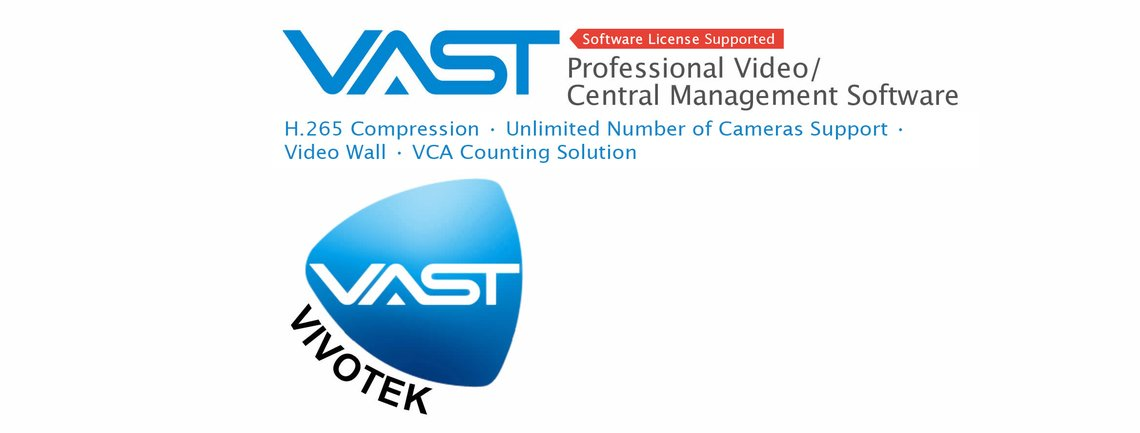
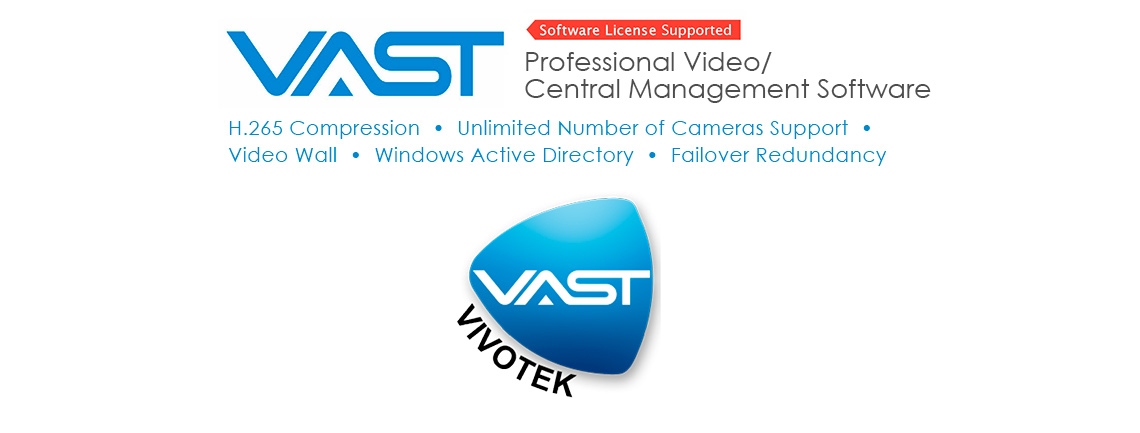
Updates VAST to 1.13.1.10

Changed region(s): [[0.1842, 0.03, 0.8596, 0.9607]]

diff --git a/vast/index.html b/vast/index.html
@@ -237,19 +237,19 @@ to improve your experience.
           <div class="div_clear_18"></div>
 
           <h3>Overview</h3>
-          <p class="t84">VIVOTEK VAST is the professional video/central management software designed for managing all VIVOTEK IP surveillance products with intuitive functions and numerous features. It integrates the new generation H.265 video codec, and supports hundreds of cameras and stations in a hierarchical structure of system for monitoring, recording, playback and event trigger management with ease-of-use and efficient control. Moreover, VAST also offers the video wall solution, VAST Matrix, for hundreds of cameras live view monitoring.</p>
-          <p class="t84">VAST integrates VIVOTEK network cameras to provide diverse solutions and applications, such as seamless recording with the cameras for uninterrupted video recording, Panoramic PTZ for 360° seamless surveillance solution and VCA metadata Integration like Line Crossing Detection, Loitering Detection, Field Detection and People Counting Reports. VAST performs remote management with full range of the server &amp; client structure and constitutes a robust system for various applications, such as Retail, Residential and Industrial.</p>
+          <p class="t84">VIVOTEK’s VAST is an intuitive professional video/central management software designed for managing all VIVOTEK IP surveillance products. It integrates next generation H.265 video codec and supports hundreds of cameras and stations in a hierarchical system structure for monitoring, recording, playback and event trigger management with effortless control. Furthermore, VAST offers the video wall solution, VAST Matrix, for hundreds of live view camera monitoring.</p>
+
+          <p class="t84">VAST expertly integrates with VIVOTEK’s network cameras to provide the most expansive solutions and applications in video surveillance. Seamless recording with cameras for uninterrupted video recording, Panoramic PTZ for 360° seamless surveillance and VCA metadata Integration like Line Crossing Detection, Loitering Detection, Field Detection and People Counting Reports are among the highlights of this integration. At the system level, VAST supports failover redundancy to avoid single points of failure and ensures maximum system up time. It also supports setup of the VAST server on a virtual machine by using one powerful physical server running multiple VASTs on it. VAST performs remote management with the full range of the server &amp; client structures and constitutes a robust system for various applications, such as Retail, Residential and Industrial.</p>
           <div class="div_clear_18"></div>
 
 
-          <h3>New Features in Version 1.12</h3>
+          <h3>New Features in Version 1.13</h3>
           <ul class="pro_ul_t84">
-            <li>Multi-Stream Recording</li>
-            <li>VCA Counting Report</li>
-            <li>HTTP Secure Support</li>
-            <li>Multicast Support (Matrix Only)</li>
-            <li>User Management Enhancement</li>
-            <li>New I/O Box integration</li>
+            <li>Failover Redundancy</li>
+            <li>Virtual Machine Supported</li>
+            <li>RTSP Streaming Recording</li>
+            <li>Joystick Enhancement</li>
+            <li>ONVIF Event Support in Alarm Management</li>
           </ul>
           <div class="div_clear_18"></div>
 
@@ -258,7 +258,7 @@ to improve your experience.
             <li>128-channel Live Video Monitoring with Dual Monitors</li>
             <li>16-channel Synchronous Playback</li>
             <li>Video Wall Solution "VAST Matrix" for Unlimited Live Views</li>
-            <li>Auto Stream Size for Reducing Display Loading</li>
+            <li>Auto Stream Size for Reducing Display Loading (Live-Client/Matrix)</li>
             <li>Instant Replay &amp; Playback on Live Client</li>
             <li>Intelligent Alarm Management and Acknowledgement</li>
             <li>Overall Device Management through Intuitive E-map Feature</li>
@@ -267,6 +267,8 @@ to improve your experience.
             <li>Logical Tree Management</li>
             <li>Windows Active Directory Integration</li>
             <li>VIVOTEK Exclusive Feature: Panoramic PTZ, Seamless Recording and VCA Counting Solution</li>
+            <li>Failover Solution</li>
+            <li>Virtual Machine Solution</li>
           </ul>
           <div class="div_clear_18"></div>
 
@@ -379,7 +381,7 @@ to improve your experience.
                           Version
                       </td>
                       <td>
-                          1.12
+                          1.13
                       </td>
                   </tr>
                   <tr class="spec_cal">
@@ -476,7 +478,7 @@ to improve your experience.
                       </td>
                       <td>
                          Multi Layout Display: 1x1, 2x2, 1+5, 3x3, 1+12, 4x4, 5x5, 1+31, 8x8, 1P+2, 1P+6, 1P+8, 2V, 3V, 4V, 2V+3<br>
-                         Single Layout Display, Full Screen Display, Sequential Display
+                         Single Layout Display, Full Screen Display, Sequential Display, Layout Rotate
                       </td>
                   </tr>
                   <tr>
@@ -728,7 +730,7 @@ to improve your experience.
                           Camera Event
                       </td>
                       <td>
-                          Motion, DI/O, Video Lost/Restore, PIR, Tampering, Temperature, IR, PPTZ, Line Crossing Detection, Loitering Detection, Field Detection
+                          Motion, DI/O, Video Lost/Restore, PIR, Tampering, Temperature, IR, PPTZ, Line Crossing Detection, Loitering Detection, Field Detection, Audio detection, SD Card life Expectancy Detection, Shock Detection, ONVIF Motion Event, ONVIF DI/O, ONVIF Video Lost/Restore
                       </td>
                   </tr>
                   <tr>
@@ -744,7 +746,8 @@ to improve your experience.
                           Substation
                       </td>
                       <td>
-                          Substation Connection Status
+                          Substation Connection Status, Substation DI/DO Trigger* <br>
+                          * Support for VIVOTEK's ND Series NVR
                       </td>
                   </tr>
                   <tr>
@@ -810,6 +813,15 @@ to improve your experience.
                   </tr>
                   <tr>
                       <td>
+                          Device
+                      </td>
+                      <td>
+                          Camera, External DI/O, Substation camera, Substation DI/DO* <br>
+                          * Support for VIVOTEK's ND Series NVR
+                      </td>
+                  </tr>
+                  <tr>
+                      <td>
                           Marked
                       </td>
                       <td>
@@ -821,7 +833,7 @@ to improve your experience.
                           Event Notification
                       </td>
                       <td>
-                          Event Icon Light Flash
+                          Event Icon Light Flash, Show Live Streaming on E-map
                       </td>
                   </tr>
                   <tr class="spec_cal">
@@ -1023,6 +1035,14 @@ to improve your experience.
                   </tr>
                   <tr>
                       <td>
+                          Video Source
+                      </td>
+                      <td>
+                          VIVOTEK Cameras, ONVIF Cameras, RTSP URL
+                      </td>
+                  </tr>
+                  <tr>
+                      <td>
                           Basic Setting
                       </td>
                       <td>
@@ -1094,6 +1114,14 @@ to improve your experience.
                           PTZ Control (Up, Down, Left, Right &amp; Zoom In/Out)
                       </td>
                   </tr>
+                  <tr>
+                      <td>
+                          ONVIF Event
+                      </td>
+                      <td>
+                          Motion Event, DI/DO, Video Lost/Restore
+                      </td>
+                  </tr>
                    <tr>
                       <td>
                           ONVIF Discovery
@@ -1152,6 +1180,15 @@ to improve your experience.
                           Seamless Recording<br>
                           Standard VCA Integration (Line Crossing &amp; Loitering &amp; Field Detection)<br>
                           VCA Counting Solution
+                      </td>
+                  </tr>
+                  <tr>
+                      <td>
+                          Failover Redundancy
+                      </td>
+                      <td>
+                          Support N x M Structure* <br>
+                          * Only Support VAST Server
                       </td>
                   </tr>
               </tbody>
@@ -1647,7 +1684,7 @@ to improve your experience.
                   <div class="block">
                     <h1 class="jplist_dl_title">Release Note</h1>
                     <div class="dl_btn">
-                      <a href="http://download.vivotek.com/downloadfile/downloads/releasenote/vastreleasenote_en.pdf?v=1.12.5.301" target="_blank" class="btn btn-default btn-sm">Download</a>
+                      <a href="http://download.vivotek.com/downloadfile/downloads/releasenote/vastreleasenote_en.pdf" target="_blank" class="btn btn-default btn-sm">Download</a>
                     </div>
                     <div class="div_clear_18"></div>
                   </div>
@@ -1659,9 +1696,9 @@ to improve your experience.
                   <div class="block">
                     <h1 class="jplist_dl_title">VAST<sup>*</sup></h1>
                     <div class="dl_btn">
-                      <a href="http://download.vivotek.com/downloadfile/downloads/software/vast_aio.zip?v=1.12.5.301" target="_blank" class="btn btn-default btn-xs">AIO 1.12.5.301</a>
-                      <a href="http://download.vivotek.com/downloadfile/downloads/software/vast_playback.zip?v=1.12.5.301" target="_blank" class="btn btn-default btn-xs">Playback 1.12.5.301</a>
-                      <a href="http://download.vivotek.com/downloadfile/downloads/software/vast_liveclient.zip?v=1.12.5.301" target="_blank" class="btn btn-default btn-xs">LiveClient 1.12.5.301</a>
+                      <a href="http://download.vivotek.com/downloadfile/downloads/software/vast_aio.zip" target="_blank" class="btn btn-default btn-xs">AIO 1.13.1.10</a>
+                      <a href="http://download.vivotek.com/downloadfile/downloads/software/vast_playback.zip" target="_blank" class="btn btn-default btn-xs">Playback 1.13.1.10</a>
+                      <a href="http://download.vivotek.com/downloadfile/downloads/software/vast_liveclient.zip" target="_blank" class="btn btn-default btn-xs">LiveClient 1.13.1.10</a>
                       <!-- <a href="http://download.vivotek.com/downloadfile/downloads/software/vast_matrix.zip" target="_blank" class="btn btn-default btn-xs">Matrix 1.10.0.202</a> -->
                     </div>
                     <div class="div_clear_18"></div>

diff --git a/brochure/index.html b/brochure/index.html
@@ -8369,6 +8369,7 @@ to improve your experience.
          <h1 class="jplist_pro_title">VAST</h1>
          </a>
          <div class="dl_btn_dls_2_6">
+          <a href="http://download.vivotek.com/downloadfile/downloads/software/vast_1.13.1.10.zip" target="_blank" class="btn btn-default btn-xs">1.13.1.10<span>2017.10</span></a>&nbsp;
           <a href="http://download.vivotek.com/downloadfile/downloads/software/vast_1.12.5.301.zip" target="_blank" class="btn btn-default btn-xs">1.12.5.301<span>2017.07</span></a>&nbsp;
           <a href="http://download.vivotek.com/downloadfile/downloads/software/vast_1.12.5.201.zip" target="_blank" class="btn btn-default btn-xs">1.12.5.201<span>2017.04</span></a>&nbsp;
           <a href="http://download.vivotek.com/downloadfile/downloads/software/vast_1.12.5.101.zip" target="_blank" class="btn btn-default btn-xs">1.12.5.101<span>2017.01</span></a>&nbsp;
@@ -8384,7 +8385,7 @@ to improve your experience.
          <p class="theme">
          <span class="product_files"><span class="iconic iconic-globe" title="Type" aria-hidden="true"></span> Product Files</span>
          <span class="software"><span class="iconic iconic-globe" title="Model" aria-hidden="true"></span> Software</span>
-         <span class="201707"><span class="iconic iconic-globe" title="Model" aria-hidden="true"></span> 2017.07</span>
+         <span class="201710"><span class="iconic iconic-globe" title="Model" aria-hidden="true"></span> 2017.10</span>
          </p>
         </div>
       </div>

diff --git a/downloads/index.html b/downloads/index.html
@@ -8369,6 +8369,7 @@ to improve your experience.
          <h1 class="jplist_pro_title">VAST</h1>
          </a>
          <div class="dl_btn_dls_2_6">
+          <a href="http://download.vivotek.com/downloadfile/downloads/software/vast_1.13.1.10.zip" target="_blank" class="btn btn-default btn-xs">1.13.1.10<span>2017.10</span></a>&nbsp;
           <a href="http://download.vivotek.com/downloadfile/downloads/software/vast_1.12.5.301.zip" target="_blank" class="btn btn-default btn-xs">1.12.5.301<span>2017.07</span></a>&nbsp;
           <a href="http://download.vivotek.com/downloadfile/downloads/software/vast_1.12.5.201.zip" target="_blank" class="btn btn-default btn-xs">1.12.5.201<span>2017.04</span></a>&nbsp;
           <a href="http://download.vivotek.com/downloadfile/downloads/software/vast_1.12.5.101.zip" target="_blank" class="btn btn-default btn-xs">1.12.5.101<span>2017.01</span></a>&nbsp;
@@ -8384,7 +8385,7 @@ to improve your experience.
          <p class="theme">
          <span class="product_files"><span class="iconic iconic-globe" title="Type" aria-hidden="true"></span> Product Files</span>
          <span class="software"><span class="iconic iconic-globe" title="Model" aria-hidden="true"></span> Software</span>
-         <span class="201707"><span class="iconic iconic-globe" title="Model" aria-hidden="true"></span> 2017.07</span>
+         <span class="201710"><span class="iconic iconic-globe" title="Model" aria-hidden="true"></span> 2017.10</span>
          </p>
         </div>
       </div>

diff --git a/firmware/index.html b/firmware/index.html
@@ -8369,6 +8369,7 @@ to improve your experience.
          <h1 class="jplist_pro_title">VAST</h1>
          </a>
          <div class="dl_btn_dls_2_6">
+          <a href="http://download.vivotek.com/downloadfile/downloads/software/vast_1.13.1.10.zip" target="_blank" class="btn btn-default btn-xs">1.13.1.10<span>2017.10</span></a>&nbsp;
           <a href="http://download.vivotek.com/downloadfile/downloads/software/vast_1.12.5.301.zip" target="_blank" class="btn btn-default btn-xs">1.12.5.301<span>2017.07</span></a>&nbsp;
           <a href="http://download.vivotek.com/downloadfile/downloads/software/vast_1.12.5.201.zip" target="_blank" class="btn btn-default btn-xs">1.12.5.201<span>2017.04</span></a>&nbsp;
           <a href="http://download.vivotek.com/downloadfile/downloads/software/vast_1.12.5.101.zip" target="_blank" class="btn btn-default btn-xs">1.12.5.101<span>2017.01</span></a>&nbsp;
@@ -8384,7 +8385,7 @@ to improve your experience.
          <p class="theme">
          <span class="product_files"><span class="iconic iconic-globe" title="Type" aria-hidden="true"></span> Product Files</span>
          <span class="software"><span class="iconic iconic-globe" title="Model" aria-hidden="true"></span> Software</span>
-         <span class="201707"><span class="iconic iconic-globe" title="Model" aria-hidden="true"></span> 2017.07</span>
+         <span class="201710"><span class="iconic iconic-globe" title="Model" aria-hidden="true"></span> 2017.10</span>
          </p>
         </div>
       </div>

diff --git a/flyer/index.html b/flyer/index.html
@@ -8369,6 +8369,7 @@ to improve your experience.
          <h1 class="jplist_pro_title">VAST</h1>
          </a>
          <div class="dl_btn_dls_2_6">
+          <a href="http://download.vivotek.com/downloadfile/downloads/software/vast_1.13.1.10.zip" target="_blank" class="btn btn-default btn-xs">1.13.1.10<span>2017.10</span></a>&nbsp;
           <a href="http://download.vivotek.com/downloadfile/downloads/software/vast_1.12.5.301.zip" target="_blank" class="btn btn-default btn-xs">1.12.5.301<span>2017.07</span></a>&nbsp;
           <a href="http://download.vivotek.com/downloadfile/downloads/software/vast_1.12.5.201.zip" target="_blank" class="btn btn-default btn-xs">1.12.5.201<span>2017.04</span></a>&nbsp;
           <a href="http://download.vivotek.com/downloadfile/downloads/software/vast_1.12.5.101.zip" target="_blank" class="btn btn-default btn-xs">1.12.5.101<span>2017.01</span></a>&nbsp;
@@ -8384,7 +8385,7 @@ to improve your experience.
          <p class="theme">
          <span class="product_files"><span class="iconic iconic-globe" title="Type" aria-hidden="true"></span> Product Files</span>
          <span class="software"><span class="iconic iconic-globe" title="Model" aria-hidden="true"></span> Software</span>
-         <span class="201707"><span class="iconic iconic-globe" title="Model" aria-hidden="true"></span> 2017.07</span>
+         <span class="201710"><span class="iconic iconic-globe" title="Model" aria-hidden="true"></span> 2017.10</span>
          </p>
         </div>
       </div>

diff --git a/handbook/index.html b/handbook/index.html
@@ -8369,6 +8369,7 @@ to improve your experience.
          <h1 class="jplist_pro_title">VAST</h1>
          </a>
          <div class="dl_btn_dls_2_6">
+          <a href="http://download.vivotek.com/downloadfile/downloads/software/vast_1.13.1.10.zip" target="_blank" class="btn btn-default btn-xs">1.13.1.10<span>2017.10</span></a>&nbsp;
           <a href="http://download.vivotek.com/downloadfile/downloads/software/vast_1.12.5.301.zip" target="_blank" class="btn btn-default btn-xs">1.12.5.301<span>2017.07</span></a>&nbsp;
           <a href="http://download.vivotek.com/downloadfile/downloads/software/vast_1.12.5.201.zip" target="_blank" class="btn btn-default btn-xs">1.12.5.201<span>2017.04</span></a>&nbsp;
           <a href="http://download.vivotek.com/downloadfile/downloads/software/vast_1.12.5.101.zip" target="_blank" class="btn btn-default btn-xs">1.12.5.101<span>2017.01</span></a>&nbsp;
@@ -8384,7 +8385,7 @@ to improve your experience.
          <p class="theme">
          <span class="product_files"><span class="iconic iconic-globe" title="Type" aria-hidden="true"></span> Product Files</span>
          <span class="software"><span class="iconic iconic-globe" title="Model" aria-hidden="true"></span> Software</span>
-         <span class="201707"><span class="iconic iconic-globe" title="Model" aria-hidden="true"></span> 2017.07</span>
+         <span class="201710"><span class="iconic iconic-globe" title="Model" aria-hidden="true"></span> 2017.10</span>
          </p>
         </div>
       </div>

diff --git a/logo/index.html b/logo/index.html
@@ -8369,6 +8369,7 @@ to improve your experience.
          <h1 class="jplist_pro_title">VAST</h1>
          </a>
          <div class="dl_btn_dls_2_6">
+          <a href="http://download.vivotek.com/downloadfile/downloads/software/vast_1.13.1.10.zip" target="_blank" class="btn btn-default btn-xs">1.13.1.10<span>2017.10</span></a>&nbsp;
           <a href="http://download.vivotek.com/downloadfile/downloads/software/vast_1.12.5.301.zip" target="_blank" class="btn btn-default btn-xs">1.12.5.301<span>2017.07</span></a>&nbsp;
           <a href="http://download.vivotek.com/downloadfile/downloads/software/vast_1.12.5.201.zip" target="_blank" class="btn btn-default btn-xs">1.12.5.201<span>2017.04</span></a>&nbsp;
           <a href="http://download.vivotek.com/downloadfile/downloads/software/vast_1.12.5.101.zip" target="_blank" class="btn btn-default btn-xs">1.12.5.101<span>2017.01</span></a>&nbsp;
@@ -8384,7 +8385,7 @@ to improve your experience.
          <p class="theme">
          <span class="product_files"><span class="iconic iconic-globe" title="Type" aria-hidden="true"></span> Product Files</span>
          <span class="software"><span class="iconic iconic-globe" title="Model" aria-hidden="true"></span> Software</span>
-         <span class="201707"><span class="iconic iconic-globe" title="Model" aria-hidden="true"></span> 2017.07</span>
+         <span class="201710"><span class="iconic iconic-globe" title="Model" aria-hidden="true"></span> 2017.10</span>
          </p>
         </div>
       </div>

diff --git a/product-files/index.html b/product-files/index.html
@@ -8369,6 +8369,7 @@ to improve your experience.
          <h1 class="jplist_pro_title">VAST</h1>
          </a>
          <div class="dl_btn_dls_2_6">
+          <a href="http://download.vivotek.com/downloadfile/downloads/software/vast_1.13.1.10.zip" target="_blank" class="btn btn-default btn-xs">1.13.1.10<span>2017.10</span></a>&nbsp;
           <a href="http://download.vivotek.com/downloadfile/downloads/software/vast_1.12.5.301.zip" target="_blank" class="btn btn-default btn-xs">1.12.5.301<span>2017.07</span></a>&nbsp;
           <a href="http://download.vivotek.com/downloadfile/downloads/software/vast_1.12.5.201.zip" target="_blank" class="btn btn-default btn-xs">1.12.5.201<span>2017.04</span></a>&nbsp;
           <a href="http://download.vivotek.com/downloadfile/downloads/software/vast_1.12.5.101.zip" target="_blank" class="btn btn-default btn-xs">1.12.5.101<span>2017.01</span></a>&nbsp;
@@ -8384,7 +8385,7 @@ to improve your experience.
          <p class="theme">
          <span class="product_files"><span class="iconic iconic-globe" title="Type" aria-hidden="true"></span> Product Files</span>
          <span class="software"><span class="iconic iconic-globe" title="Model" aria-hidden="true"></span> Software</span>
-         <span class="201707"><span class="iconic iconic-globe" title="Model" aria-hidden="true"></span> 2017.07</span>
+         <span class="201710"><span class="iconic iconic-globe" title="Model" aria-hidden="true"></span> 2017.10</span>
          </p>
         </div>
       </div>

diff --git a/software-download/index.html b/software-download/index.html
@@ -8369,6 +8369,7 @@ to improve your experience.
          <h1 class="jplist_pro_title">VAST</h1>
          </a>
          <div class="dl_btn_dls_2_6">
+          <a href="http://download.vivotek.com/downloadfile/downloads/software/vast_1.13.1.10.zip" target="_blank" class="btn btn-default btn-xs">1.13.1.10<span>2017.10</span></a>&nbsp;
           <a href="http://download.vivotek.com/downloadfile/downloads/software/vast_1.12.5.301.zip" target="_blank" class="btn btn-default btn-xs">1.12.5.301<span>2017.07</span></a>&nbsp;
           <a href="http://download.vivotek.com/downloadfile/downloads/software/vast_1.12.5.201.zip" target="_blank" class="btn btn-default btn-xs">1.12.5.201<span>2017.04</span></a>&nbsp;
           <a href="http://download.vivotek.com/downloadfile/downloads/software/vast_1.12.5.101.zip" target="_blank" class="btn btn-default btn-xs">1.12.5.101<span>2017.01</span></a>&nbsp;
@@ -8384,7 +8385,7 @@ to improve your experience.
          <p class="theme">
          <span class="product_files"><span class="iconic iconic-globe" title="Type" aria-hidden="true"></span> Product Files</span>
          <span class="software"><span class="iconic iconic-globe" title="Model" aria-hidden="true"></span> Software</span>
-         <span class="201707"><span class="iconic iconic-globe" title="Model" aria-hidden="true"></span> 2017.07</span>
+         <span class="201710"><span class="iconic iconic-globe" title="Model" aria-hidden="true"></span> 2017.10</span>
          </p>
         </div>
       </div>

diff --git a/wall-paper/index.html b/wall-paper/index.html
@@ -8369,6 +8369,7 @@ to improve your experience.
          <h1 class="jplist_pro_title">VAST</h1>
          </a>
          <div class="dl_btn_dls_2_6">
+          <a href="http://download.vivotek.com/downloadfile/downloads/software/vast_1.13.1.10.zip" target="_blank" class="btn btn-default btn-xs">1.13.1.10<span>2017.10</span></a>&nbsp;
           <a href="http://download.vivotek.com/downloadfile/downloads/software/vast_1.12.5.301.zip" target="_blank" class="btn btn-default btn-xs">1.12.5.301<span>2017.07</span></a>&nbsp;
           <a href="http://download.vivotek.com/downloadfile/downloads/software/vast_1.12.5.201.zip" target="_blank" class="btn btn-default btn-xs">1.12.5.201<span>2017.04</span></a>&nbsp;
           <a href="http://download.vivotek.com/downloadfile/downloads/software/vast_1.12.5.101.zip" target="_blank" class="btn btn-default btn-xs">1.12.5.101<span>2017.01</span></a>&nbsp;
@@ -8384,7 +8385,7 @@ to improve your experience.
          <p class="theme">
          <span class="product_files"><span class="iconic iconic-globe" title="Type" aria-hidden="true"></span> Product Files</span>
          <span class="software"><span class="iconic iconic-globe" title="Model" aria-hidden="true"></span> Software</span>
-         <span class="201707"><span class="iconic iconic-globe" title="Model" aria-hidden="true"></span> 2017.07</span>
+         <span class="201710"><span class="iconic iconic-globe" title="Model" aria-hidden="true"></span> 2017.10</span>
          </p>
         </div>
       </div>

diff --git a/white-paper/index.html b/white-paper/index.html
@@ -8369,6 +8369,7 @@ to improve your experience.
          <h1 class="jplist_pro_title">VAST</h1>
          </a>
          <div class="dl_btn_dls_2_6">
+          <a href="http://download.vivotek.com/downloadfile/downloads/software/vast_1.13.1.10.zip" target="_blank" class="btn btn-default btn-xs">1.13.1.10<span>2017.10</span></a>&nbsp;
           <a href="http://download.vivotek.com/downloadfile/downloads/software/vast_1.12.5.301.zip" target="_blank" class="btn btn-default btn-xs">1.12.5.301<span>2017.07</span></a>&nbsp;
           <a href="http://download.vivotek.com/downloadfile/downloads/software/vast_1.12.5.201.zip" target="_blank" class="btn btn-default btn-xs">1.12.5.201<span>2017.04</span></a>&nbsp;
           <a href="http://download.vivotek.com/downloadfile/downloads/software/vast_1.12.5.101.zip" target="_blank" class="btn btn-default btn-xs">1.12.5.101<span>2017.01</span></a>&nbsp;
@@ -8384,7 +8385,7 @@ to improve your experience.
          <p class="theme">
          <span class="product_files"><span class="iconic iconic-globe" title="Type" aria-hidden="true"></span> Product Files</span>
          <span class="software"><span class="iconic iconic-globe" title="Model" aria-hidden="true"></span> Software</span>
-         <span class="201707"><span class="iconic iconic-globe" title="Model" aria-hidden="true"></span> 2017.07</span>
+         <span class="201710"><span class="iconic iconic-globe" title="Model" aria-hidden="true"></span> 2017.10</span>
          </p>
         </div>
       </div>
